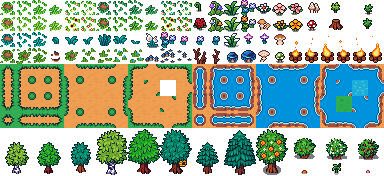
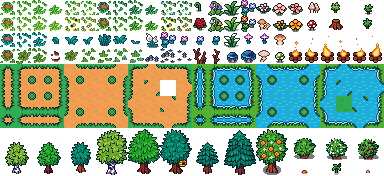
Ajustada a cor das mascaras
as cores das mascaras que geram o mundo estão ajustadas para os hex usados no desenho de referencisa

Changed region(s): [[0.5, 0.3409, 1.0, 0.7386]]

diff --git a/README.md b/README.md
@@ -1,17 +1,16 @@
 # Informações sobre o projeto
 
+Historico de Atualizações e alterações:
 
-Épico 1: Fundação do Jogador e do Mundo
-
-Este épico cobre a criação do personagem jogável básico, seu movimento e a interação com o ambiente fundamental do jogo.
-
-| ID | User Story | Critérios de Aceite -| | US-01 | Como jogador, eu quero poder mover meu personagem nas 8 direções usando um controle ou teclado. | 1. O personagem responde ao input do analógico esquerdo do controle e/ou das teclas WASD/Setas.
-2. O personagem se move suavemente nas 8 direções (cima, baixo, esquerda, direita e diagonais).  
-3. A animação de "andar" (Walk) é ativada durante o movimento.  
-4. O personagem para de se mover quando o input cessa, retornando à animação "parado" (Idle). -| | US-02 | Como jogador, eu quero que a câmera siga meu personagem, mantendo-o no centro da tela. | 1. A câmera permanece focada no personagem enquanto ele se move pelo mapa.  
-2. O movimento da câmera é suave e não causa solavancos.  
-3. A perspectiva isométrica é mantida consistentemente. -| | US-03 | Como desenvolvedor, eu quero criar um mapa de jogo estático usando o tileset do asset pack. | 1. O mapa é construído usando o tileset de 16x16 do "Farm RPG Asset Pack".  
-2. O mapa contém os elementos básicos do bioma de campo (grama, árvores, pedras, etc.).  
-3. O personagem pode colidir com os objetos do cenário (árvores, pedras, etc.) e não pode atravessá-los.  
-4. O mapa tem limites definidos que o personagem não pode ultrapassar. -|
-
+1 - criada a cena de personagem_base (adicionada: colisão, textura, animação e camera2D)
+2 - adicionado script de movimento basico e seleção de animação com base na direção
+3 - criada a cena gerenciador de terreno (adicionadas as layers agua, grama e areia)
+4 - terrenos configurados
+5 - adicionado script de geração de terreno apeatorio com base em mascara pré definida sorteada de ua lista de possibilidades
+6 - criada cena componente de decoração com sorteio aleatorio de texturas de decoração sendo elas grama, flores e arvores
+7 - adicionado script de controle de decoração onde o algoritmo escolhe 5 texturas, e soteia a posição para ser carregada em um tile de 32x32
+8 - geração aleatoria de componente de decoração adicionado ao script de geração de terreno
+9 - criada cena game level e adicinados os componentes gerador de terreno e player (cenas herdadas)
+10 - configurados os ySorts para que a posição relativa dos elementos no mapa façam sentido
+11 - correção de desenho de borda para naturalidade dos encaixes de tiles
+12 - 
